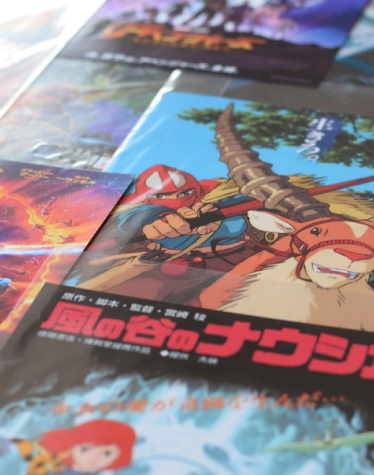
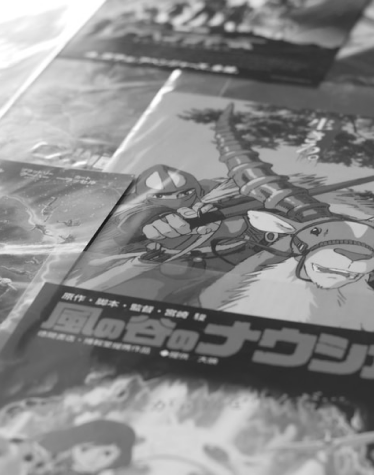
:dizzy: add animations on the images project with tweenmax

diff --git a/src/works.html b/src/works.html
@@ -13,6 +13,21 @@
     <title>Maëva WOLFF - works</title>
   </head>
   <body class="overflow">
+    <svg>
+      <filter id="noise" x="0%" y="0%" width="100%" height="100%">
+        <feTurbulence
+          baseFrequency="0.01 0.01"
+          result="NOISE"
+          numOctaves="3"
+          id="turbulence"
+        />
+        <feDisplacementMap
+          in="SourceGraphic"
+          in2="NOISE"
+          scale="50"
+        ></feDisplacementMap>
+      </filter>
+    </svg>
     <header class="header">
       <section class="header__left">
         <p class="header__logo"><a href="index.html">mw.</a></p>
@@ -59,7 +74,7 @@
             <img
               src="assets/img/saletemps.png"
               alt="work image"
-              class="work__image"
+              class="work__image dark"
             />
           </a>
         </article>
@@ -120,7 +135,8 @@
       </nav>
       <p class="footer__mentions">All Rights Reserved © maevawolff.com</p>
     </footer>
-
+    <script src="https://cdnjs.cloudflare.com/ajax/libs/gsap/2.0.2/TweenMax.min.js"></script>
+    <script src="js/imagesTurbulence.js"></script>
     <script src="js/carousel.js"></script>
     <script src="js/choiceWorks.js"></script>
   </body>

diff --git a/src/styles/blocs/works.scss b/src/styles/blocs/works.scss
@@ -1,9 +1,12 @@
 .overflow {
+  svg {
+    position: absolute;
+    filter: grayscale(1);
+  }
   @include sm {
     overflow: hidden;
   }
 }
-
 .works {
   display: flex;
   flex-direction: column;
@@ -141,15 +144,9 @@
     width: 80%;
     height: 350px;
     opacity: 0.6;
-    filter: grayscale(1);
-    transition: filter 0.3s;
     cursor: pointer;
     opacity: 0.3;
-
-    &:hover {
-      filter: none;
-    }
-
+    filter: url(#noise);
     @include sm {
       width: 100%;
       height: 100%;

diff --git a/src/js/imagesTurbulence.js b/src/js/imagesTurbulence.js
@@ -1,0 +1,12 @@
+let turbulences = document.getElementById("turbulence");
+
+const myTimeLine = new TimelineMax({ yoyo: true, repeat: -1 });
+
+myTimeLine.from(
+  ".work__images",
+  0,
+  { x: -100, y: -120, ease: Power2.easeOut },
+  0.6
+);
+
+myTimeLine.to(turbulences, 10, { attr: { baseFrequency: "0 0" } }, 0);
